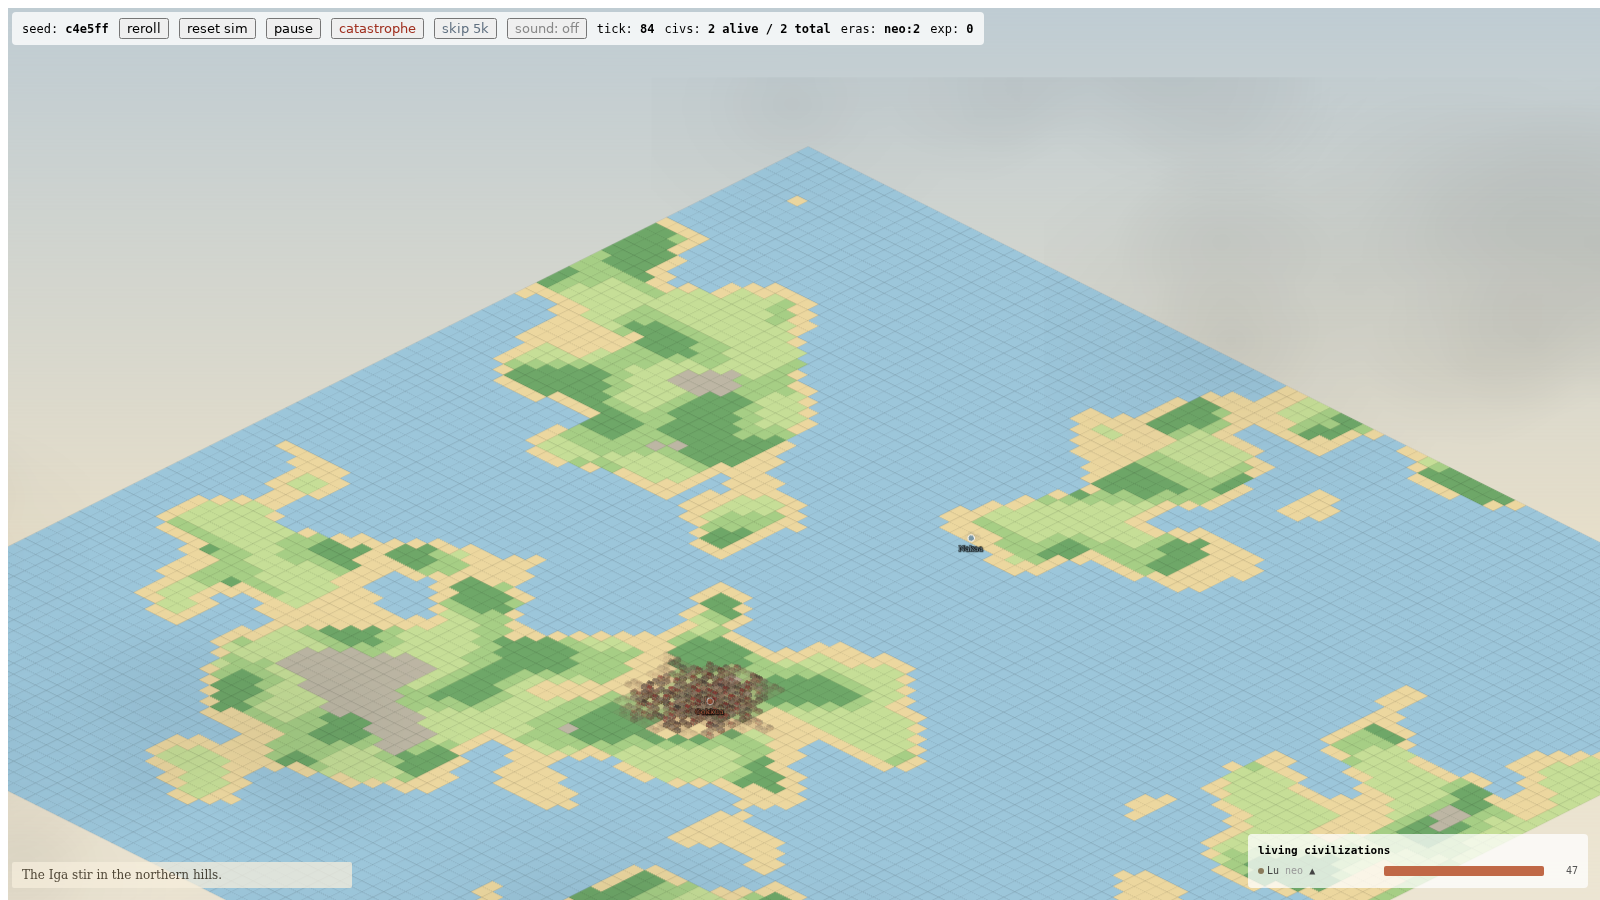
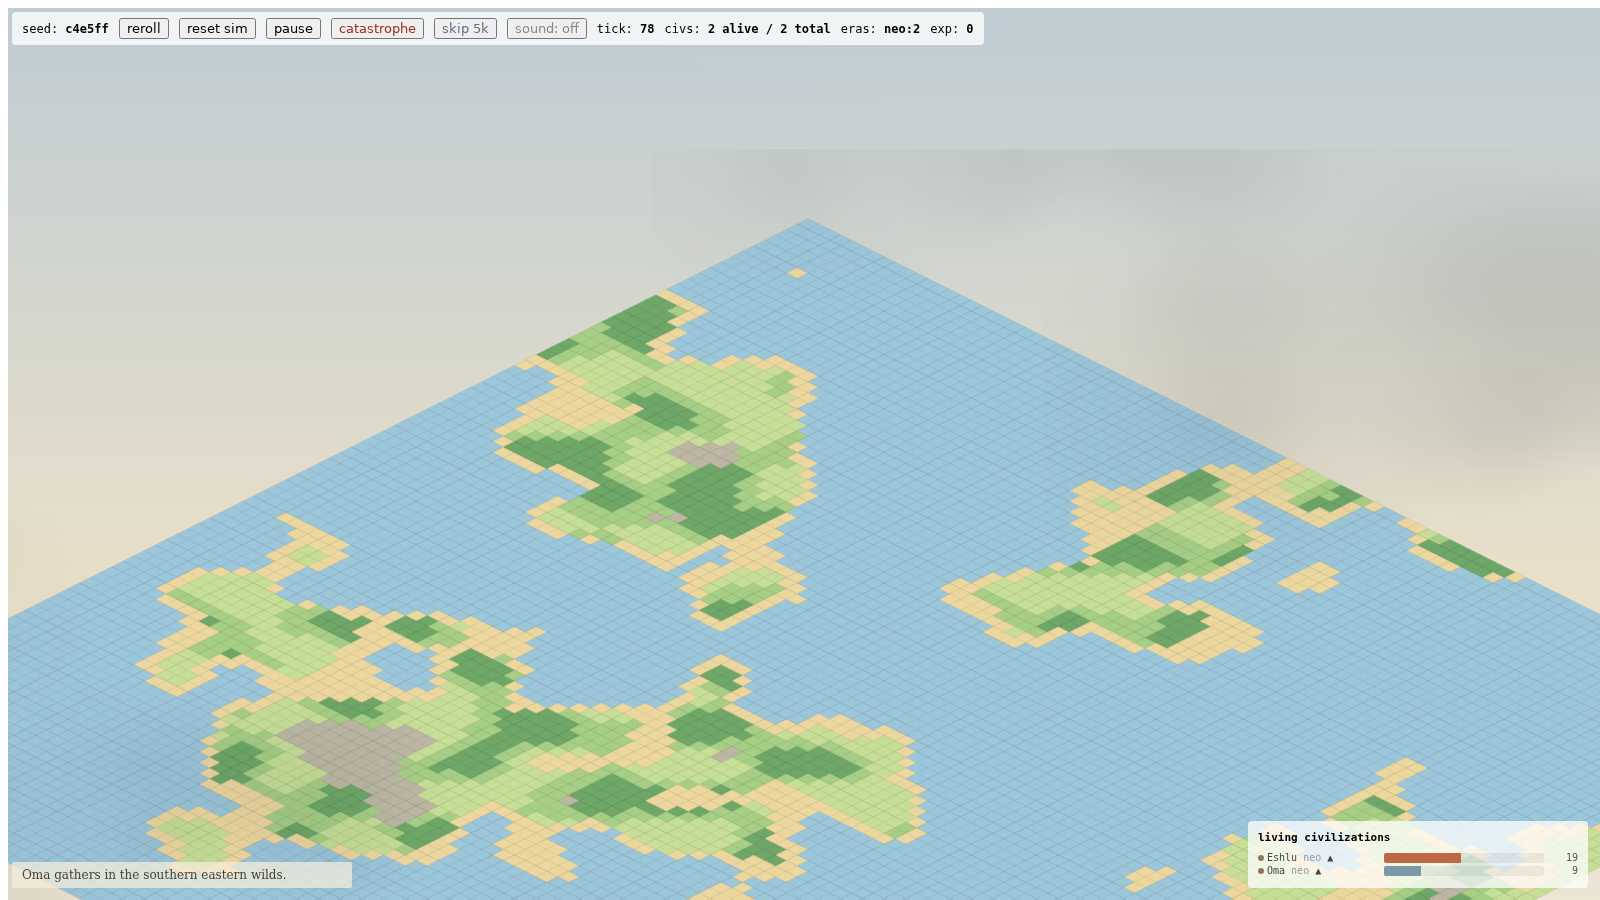
Curvature v6: true planetary cap — ocean apron + circular limb mask
Lawrence's mockup: a circular horizon spanning the full frame with the
far world hidden behind it. Construction:

- Ocean apron: the sea (fill + iso grid) extends past the diamond in
  every direction, drawn under the terrain inside biomeLayer (seasonal
  tint applies). The world no longer has a diamond boundary anywhere.
- Circular limb: a screen-space mask clips the world plane at a circle
  through the apex, sagging limbSagMax x curvature at the frame edges.
  The silhouette is a planet's limb by construction at any window size,
  and far terrain genuinely disappears over the horizon.
- The horizon haze band now lies along the limb arc itself, tinted to
  the live horizon color. Corner haze and shoreline feather retired —
  the limb replaces both.
- Interior bend kept (gentler: remapMax 0.35) for surface compression;
  seat raised to horizonFrac 0.24 for mockup-like sky.
- Scrubbing curvature below 0.05 removes mask and apron: the original
  flat diamond returns.

diff --git a/src/atmosphere.ts b/src/atmosphere.ts
@@ -18,7 +18,7 @@ export const ATMOS = {
   // restores the old full-bleed crop (and hides the sky almost entirely).
   composition: {
     worldScale: 0.68,
-    horizonFrac: 0.16,
+    horizonFrac: 0.24,
   },
 
   day: {
@@ -67,24 +67,19 @@ export const ATMOS = {
     // 1 = wings fully on the arc (too much; far columns stretch visibly).
     curvature: 0.62,
     perspective: 0.45,
-    remapMax:   0.55,        // at curvature=1: how far the wings travel from tent to arc
-    arcSagFrac: 0.11,        // horizon arc droop from apex toward the sides, fraction of texture height
-    arcPower:   1.7,         // arc shape: 2 = flat crown that dives at the ends, 1 = conical
-    apexRoundFrac: 0.45,     // how wide the apex point rounds into a crown (fraction of half-span, scales with the knob)
+    remapMax:   0.35,        // at curvature=1: how far the surface bends toward the horizon (interior only — the limb mask owns the silhouette)
+    arcSagFrac: 0.11,        // interior bend arc droop, fraction of texture height
+    arcPower:   1.7,         // interior bend arc shape
+    apexRoundFrac: 0.45,     // how wide the apex rounds (fraction of half-span, scales with the knob)
     pinchMaxFrac:     0.16,  // at perspective=1: horizontal narrowing of the far edge
     vertCompressFrac: 0.35,  // at perspective=1: how hard far rows bunch toward the horizon (t^(1+this))
-    // Corner haze: soft sky-colored washes over the three far corners so the
-    // points dissolve into atmosphere instead of terminating sharply. Scales
-    // with the curvature knob (0 = none, exactly the old silhouette).
-    edgeHazeAlpha: 0.55,
-    edgeHazeSize:  500,      // base radius, world px before per-corner stretch
-    // Horizon band: the haze of distance above the far shorelines — the
-    // planet's atmospheric limb. Also structurally load-bearing: it fills
-    // the sliver the seamless remap leaves near the apex. Rides the
-    // curvature knob; alpha 0 will re-expose that sliver, so prefer lowering
-    // toward ~0.4 over zeroing it.
-    edgeFeatherAlpha: 0.85,
-    edgeFeatherWidth: 56,    // per-pass stroke width, world px before blur
+    // The limb: a true circular horizon, screen-space, that clips the world.
+    // The far world disappears behind it — the ocean apron (drawn under the
+    // terrain in main.ts) means there is always sea to clip, so the
+    // silhouette is a circle arc by construction at any framing.
+    limbSagMax:   0.80,      // arc drop at the frame edge at curvature=1, fraction of half-width
+    limbHazeAlpha: 0.55,     // haze band lying along the limb
+    limbHazeWidth: 64,       // band stroke width, screen px before blur
   },
 
   weather: {
@@ -225,21 +220,6 @@ interface Scar {
   recede: boolean; // flood silt creeps back
 }
 
-// A single soft radial gradient — used (tinted) for the corner haze.
-function makeHazeTexture(): Texture {
-  const size = 256;
-  const cv = document.createElement('canvas');
-  cv.width = size; cv.height = size;
-  const ctx = cv.getContext('2d')!;
-  const grad = ctx.createRadialGradient(size / 2, size / 2, 0, size / 2, size / 2, size / 2);
-  grad.addColorStop(0, 'rgba(255,255,255,0.85)');
-  grad.addColorStop(0.5, 'rgba(255,255,255,0.40)');
-  grad.addColorStop(1, 'rgba(255,255,255,0)');
-  ctx.fillStyle = grad;
-  ctx.fillRect(0, 0, size, size);
-  return Texture.from(cv);
-}
-
 // Soft blobby cloud mass on a canvas — overlapping radial gradients. Each
 // texture is reused by several sprites at different scales/flips.
 function makeCloudTexture(rand: () => number): Texture {
@@ -308,10 +288,12 @@ export interface Atmosphere {
   // The bent mesh the world draws through; attach once after creation, with
   // the diamond's corner positions in texture pixels (left, apex, right, front).
   attachPlane(plane: MeshPlane, geom: { left: { x: number; y: number }; apex: { x: number; y: number }; right: { x: number; y: number }; front: { x: number; y: number } }): void;
-  // World-space layers: shoreline feather and corner haze; add to the world
-  // container above fog (they bend with the mesh).
-  hazeLayer: Container;
-  featherLayer: Container;
+  // Screen-space limb: the mask must be added to the stage (it clips the
+  // world plane); the band draws the horizon haze above the plane.
+  limbMask: Graphics;
+  limbBand: Container;
+  // Seat the limb (call on resize; scrubs re-use the last layout).
+  layoutLimb(args: { width: number; height: number; apexX: number; apexY: number }): void;
   setCurvature(v: number): void;   // 0..1, live scrub
   setPerspective(v: number): void; // 0..1, live scrub
   curvature(): number;
@@ -374,57 +356,52 @@ export function createAtmosphere(): Atmosphere {
     d.sp.tint = ATMOS.weather.fogTint;
   }
 
-  // Horizon band: the haze of distance above the two far shorelines (left
-  // corner → apex → right corner). Drawn once in world space so it bends with
-  // the mesh; tinted live to the horizon color; alpha rides the curvature
-  // knob. It does double duty: it reads as the atmospheric limb of the
-  // planet, and it opaquely fills the sliver between the diamond's true
-  // (kinked) edge and the smooth crown the mesh remaps to — which is what
-  // lets the remap be seamless.
-  const featherLayer = new Container();
-  const featherGfx = new Graphics();
-  {
-    const L = { x: -1528, y: 764 }, T = { x: 0, y: -8 }, R = { x: 1528, y: 764 };
-    const w0 = ATMOS.curve.edgeFeatherWidth;
-    // Stacked washes climbing from the shoreline: dense at the waterline,
-    // thinning upward — ~3 stroke-widths of band above the edge.
+  // The limb: a screen-space circular horizon. limbMaskG clips the world
+  // plane (the far world disappears behind the horizon); limbBand lays a
+  // blurred haze along the arc, tinted live to the horizon color. Both are
+  // redrawn by layoutLimb (on resize and on curvature scrubs).
+  const limbMaskG = new Graphics();
+  const limbBand = new Container();
+  const limbBandGfx = new Graphics();
+  limbBandGfx.filters = [new BlurFilter({ strength: 9 })];
+  limbBand.addChild(limbBandGfx);
+  let limbLayout: { width: number; height: number; apexX: number; apexY: number } | null = null;
+
+  function layoutLimb(args?: { width: number; height: number; apexX: number; apexY: number }) {
+    if (args) limbLayout = args;
+    if (!limbLayout) return;
+    const { width, height, apexX, apexY } = limbLayout;
+    const c = ATMOS.curve;
+    limbMaskG.clear();
+    limbBandGfx.clear();
+    const sag = curCurvature * c.limbSagMax * (width / 2);
+    if (sag < 2 || !attachedPlane) {
+      // Flat: no horizon, no clipping.
+      if (attachedPlane) attachedPlane.mask = null;
+      return;
+    }
+    // Circle through the arc apex (apexX, apexY), sagging `sag` px at the
+    // frame edges: R from the chord/sagitta relation.
+    const halfW = width / 2 + 80; // overshoot the frame so the arc exits cleanly
+    const R = (halfW * halfW + sag * sag) / (2 * sag);
+    const cy = apexY + R;
+    // Mask: the circle's upper region plus everything below its center line.
+    limbMaskG.circle(apexX, cy, R).fill(0xffffff);
+    limbMaskG.rect(-200, cy, width + 400, height + 400).fill(0xffffff);
+    attachedPlane.mask = limbMaskG;
+    // Haze band hugging the limb: stacked arc strokes, dense at the horizon
+    // line, thinning upward into the sky.
+    const w0 = c.limbHazeWidth;
+    const theta = Math.asin(Math.min(1, halfW / R));
     const passes: Array<[number, number, number]> = [
-      [0.25 * w0, 1.1, 0.42],   // hugging the shoreline
-      [-0.45 * w0, 1.2, 0.38],
-      [-1.20 * w0, 1.2, 0.30],
-      [-1.95 * w0, 1.1, 0.22],
-      [-2.60 * w0, 1.0, 0.14],  // dissolving into sky
+      [w0 * 0.30, 1.1, 0.40],   // just below the line (over the far surface)
+      [-w0 * 0.35, 1.1, 0.34],
+      [-w0 * 1.00, 1.1, 0.22],
+      [-w0 * 1.65, 1.0, 0.12],  // dissolving upward
     ];
     for (const [off, wMult, aMult] of passes) {
-      featherGfx.moveTo(L.x, L.y + off).lineTo(T.x, T.y + off).lineTo(R.x, R.y + off)
-        .stroke({ color: 0xffffff, alpha: aMult, width: w0 * wMult, cap: 'round', join: 'round' });
-    }
-    featherGfx.filters = [new BlurFilter({ strength: 10 })];
-    featherLayer.addChild(featherGfx);
-  }
-
-  // Corner haze: three soft washes that melt the diamond's far points into
-  // the sky. Lives in WORLD space (so it bends with the mesh and can never
-  // strand in the sky); tinted live to the horizon color; alpha rides the
-  // curvature knob.
-  const hazeLayer = new Container();
-  const hazeTexture = makeHazeTexture();
-  const hazeSprites: Sprite[] = [];
-  {
-    const corners = [
-      { x: -1528, y: 764, sx: 2.6, sy: 1.1 },  // left
-      { x: 0, y: -8, sx: 2.2, sy: 0.95 },      // apex
-      { x: 1528, y: 764, sx: 2.6, sy: 1.1 },   // right
-    ];
-    for (const cnr of corners) {
-      const sp = new Sprite(hazeTexture);
-      sp.anchor.set(0.5);
-      sp.alpha = 0;
-      sp.position.set(cnr.x, cnr.y);
-      const base = ATMOS.curve.edgeHazeSize / 128;
-      sp.scale.set(base * cnr.sx, base * cnr.sy);
-      hazeLayer.addChild(sp);
-      hazeSprites.push(sp);
+      limbBandGfx.arc(apexX, cy, R + off, -Math.PI / 2 - theta, -Math.PI / 2 + theta)
+        .stroke({ color: 0xffffff, alpha: aMult, width: w0 * wMult, cap: 'round' });
     }
   }
 
@@ -556,15 +533,10 @@ export function createAtmosphere(): Atmosphere {
     glazeLayer.tint = glazeColor;
     glazeLayer.alpha = Math.min(ATMOS.day.glazeCap, glazeAlpha);
 
-    // Corner haze + edge feather follow the sky's horizon color (including
-    // the dread lean) and fade in with the curvature knob.
-    const hazeAlpha = ATMOS.curve.edgeHazeAlpha * curCurvature;
-    for (const sp of hazeSprites) {
-      sp.tint = horizon;
-      sp.alpha = hazeAlpha;
-    }
-    featherGfx.tint = horizon;
-    featherGfx.alpha = ATMOS.curve.edgeFeatherAlpha * curCurvature;
+    // The limb haze follows the sky's horizon color (including the dread
+    // lean) and fades in with the curvature knob.
+    limbBandGfx.tint = horizon;
+    limbBandGfx.alpha = ATMOS.curve.limbHazeAlpha * curCurvature;
 
     // The land itself drifts with the season (ambered autumns, pale winters).
     if (attachedBiomeLayer) attachedBiomeLayer.tint = season.biomeTint;
@@ -709,10 +681,12 @@ export function createAtmosphere(): Atmosphere {
       planeGeom = geom;
       planeBasePositions = plane.geometry.positions.slice();
       applyCurve();
+      layoutLimb();
     },
-    hazeLayer,
-    featherLayer,
-    setCurvature: (v: number) => { curCurvature = Math.max(0, Math.min(1, v)); applyCurve(); },
+    limbMask: limbMaskG,
+    limbBand,
+    layoutLimb,
+    setCurvature: (v: number) => { curCurvature = Math.max(0, Math.min(1, v)); applyCurve(); layoutLimb(); },
     setPerspective: (v: number) => { curPerspective = Math.max(0, Math.min(1, v)); applyCurve(); },
     curvature: () => curCurvature,
     perspective: () => curPerspective,

diff --git a/src/main.ts b/src/main.ts
@@ -519,10 +519,6 @@ world.addChild(atmos.cloudShadowLayer);
 world.addChild(cityMarkersContainer);
 // Mist banks veil everything but the text.
 world.addChild(atmos.fogLayer);
-// Shoreline feather + corner haze melt the far edges into the sky; both are
-// world-space so they bend with the mesh.
-world.addChild(atmos.featherLayer);
-world.addChild(atmos.hazeLayer);
 world.addChild(labelLayer);
 atmos.attach({ biomeLayer });
 
@@ -547,6 +543,10 @@ const worldPlane = new MeshPlane({ texture: worldRT, verticesX: 110, verticesY: 
 
 app.stage.addChild(atmos.skyLayer);
 app.stage.addChild(worldPlane);
+// The limb mask clips the plane at the circular horizon; it must live in the
+// tree. The band lays horizon haze along the arc, above the plane.
+app.stage.addChild(atmos.limbMask);
+app.stage.addChild(atmos.limbBand);
 app.stage.addChild(atmos.glazeLayer);
 // The silhouette remap needs the diamond's corners in texture pixels.
 const toTex = (wx: number, wy: number) => ({
@@ -574,6 +574,13 @@ function centerWorld() {
   worldBaseY = window.innerHeight * ATMOS.composition.horizonFrac + WORLD_CAPTURE.y0 * captureScale;
   worldPlane.x = worldBaseX;
   worldPlane.y = worldBaseY;
+  // The circular horizon passes through the diamond apex's screen position.
+  atmos.layoutLimb({
+    width: window.innerWidth,
+    height: window.innerHeight,
+    apexX: window.innerWidth / 2,
+    apexY: window.innerHeight * ATMOS.composition.horizonFrac - 8 * captureScale,
+  });
 }
 centerWorld();
 
@@ -847,8 +854,36 @@ let running = true;
 
 const fadedDeadCivs = new Set<number>();
 
+// Ocean apron: the sea continues past the diamond in every direction, so the
+// world has no diamond boundary — the circular horizon (limb mask) is the
+// only edge the viewer ever sees. Same fill and grid treatment as water
+// tiles; first child of biomeLayer so it takes the seasonal tint.
+function drawOceanApron(): Graphics {
+  const g = new Graphics();
+  const { x0, y0, w, h } = WORLD_CAPTURE;
+  g.rect(x0, y0, w, h).fill(BIOME_COLORS.water);
+  // The iso grid, continued: tile edges satisfy x+2y = 32k and x-2y = 32m.
+  // Lines run border-to-border; overshoot past the rect is clipped by the
+  // render texture.
+  for (let k = Math.ceil((x0 + 2 * y0) / 32); k <= Math.floor((x0 + w + 2 * (y0 + h)) / 32); k++) {
+    const c = k * 32;
+    g.moveTo(c - 2 * y0, y0).lineTo(c - 2 * (y0 + h), y0 + h)
+      .stroke({ color: 0x000000, alpha: 0.08, width: 1 });
+  }
+  for (let m = Math.ceil((x0 - 2 * (y0 + h)) / 32); m <= Math.floor((x0 + w - 2 * y0) / 32); m++) {
+    const c = m * 32;
+    g.moveTo(c + 2 * y0, y0).lineTo(c + 2 * (y0 + h), y0 + h)
+      .stroke({ color: 0x000000, alpha: 0.08, width: 1 });
+  }
+  return g;
+}
+
+let oceanApron: Graphics | null = null;
+
 function drawBiomes() {
   biomeLayer.removeChildren();
+  oceanApron = drawOceanApron();
+  biomeLayer.addChild(oceanApron);
   biomeTileVisuals = Array.from({ length: GRID_SIZE }, () => Array(GRID_SIZE).fill(null));
   animatingBiomeTiles.clear();
   for (let row = 0; row < GRID_SIZE; row++) {
@@ -1589,6 +1624,9 @@ app.ticker.add((ticker) => {
   // Sky + glaze + weather + scar fades. The sky leans toward the last dread
   // hue while curDread eases, so it releases smoothly after a catastrophe.
   atmos.update(ticker.deltaMS, curDread, curHue.vignette, dominantEra(simWorld));
+  // The ocean apron belongs to the planetary look; scrubbing curvature to ~0
+  // restores the bare flat diamond.
+  if (oceanApron) oceanApron.alpha = atmos.curvature() < 0.05 ? 0 : 1;
   audio.setDread(curDread);
   frameCount++;
   // Ease per-civ saturation toward era target; refresh tints for any civ mid-transition.

diff --git a/RUN_LOG.md b/RUN_LOG.md
@@ -24,3 +24,4 @@
 - 06:30 Lawrence: "the diamond is inside the curve — the world should go up to the curve." Two findings: (1) the arc he saw was an artifact (fog banks clipping at the world texture's top edge, bent into a false horizon by the mesh) — fixed by fading fog near the apex; (2) his read was the right design — curvature is now a SILHOUETTE REMAP: each column's tent edge is pulled toward a horizon arc through the apex, wings RISE to meet it, far rows bunch toward the horizon (t^e perspective), front pinned. Corner haze moved into world space (can never strand). Verified both viewports; curvature 0 still equals the old flat build; scar-at-the-limb smoke test passes.
 - 07:00 Lawrence: "interesting but it's not a curve" — the silhouette was a polyline (32 mesh columns) with the tent's apex kink surviving the partial lerp. Fixed: mesh densified to 110x36 columns, and the remap target now rounds the apex point into a crown (softened |dx|, radius riding the knob — flat still restores at 0). Silhouette is now a single smooth limb at any framing. Calibration re-captured.
 - 07:40 Lawrence: "better but there's a seam in the center; can it look like the arc of a globe?" Seam diagnosed: the column mapping compressed from the diamond's TRUE edge, whose apex kink made the compression rate jump at the center column. Fix: the mapping now uses the softened (smooth) edge everywhere — no kink, no seam — and the sliver this leaves near the apex is filled by the feather upgraded into an opaque horizon BAND (stacked washes above the shoreline, dense at the waterline, dissolving upward). The surface now compresses into haze, the haze dissolves at the smooth crown: an atmospheric limb. Verified seamless at full-res apex crops, day and night.
+- 08:30 Lawrence's mockup: a true circular limb spanning the frame, far world hidden behind the horizon. v6 construction: (1) ocean apron — sea + iso grid extends past the diamond in all directions (first child of biomeLayer, takes seasonal tint), so the world has no diamond boundary at all; (2) screen-space circular limb mask clips the world plane — the silhouette is a circle by construction at any framing, far terrain genuinely disappears over the horizon; (3) haze band moved onto the limb arc; (4) interior bend retained (remapMax eased to 0.35), seat raised (horizonFrac 0.24) for sky like the mockup. curvature<0.05 hides the apron + mask (flat diamond restores). Day and night shots match the mockup construction.
